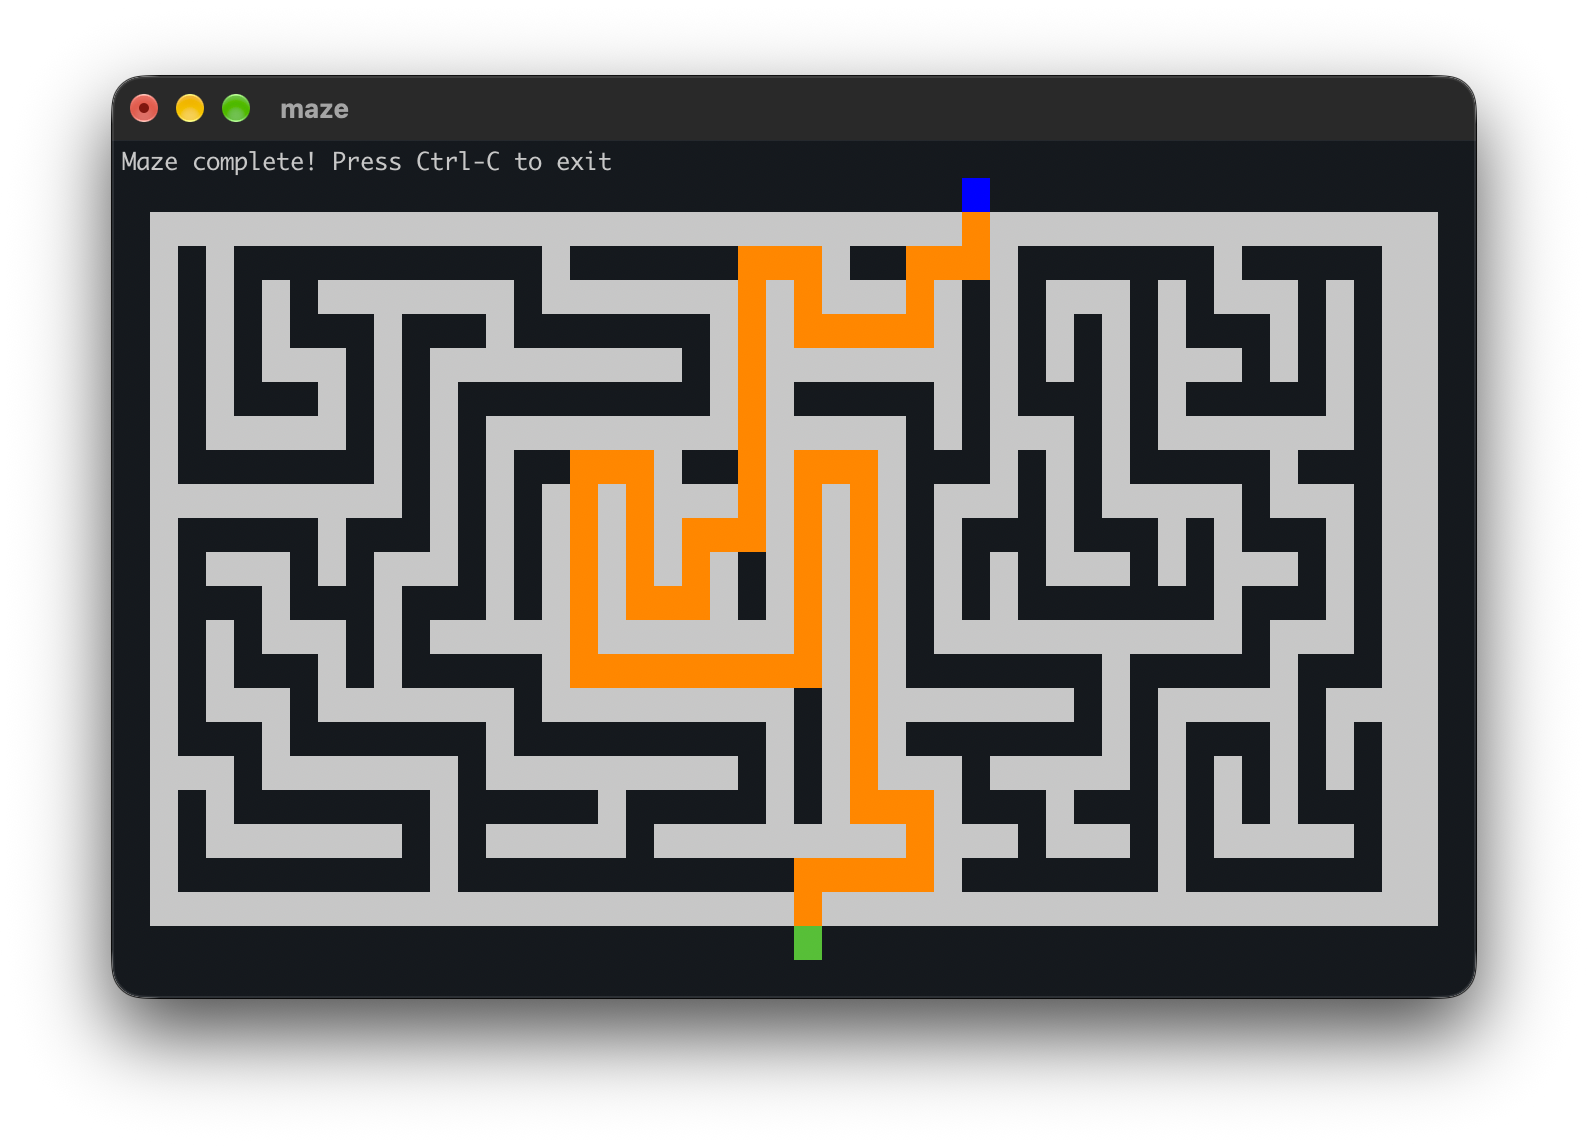
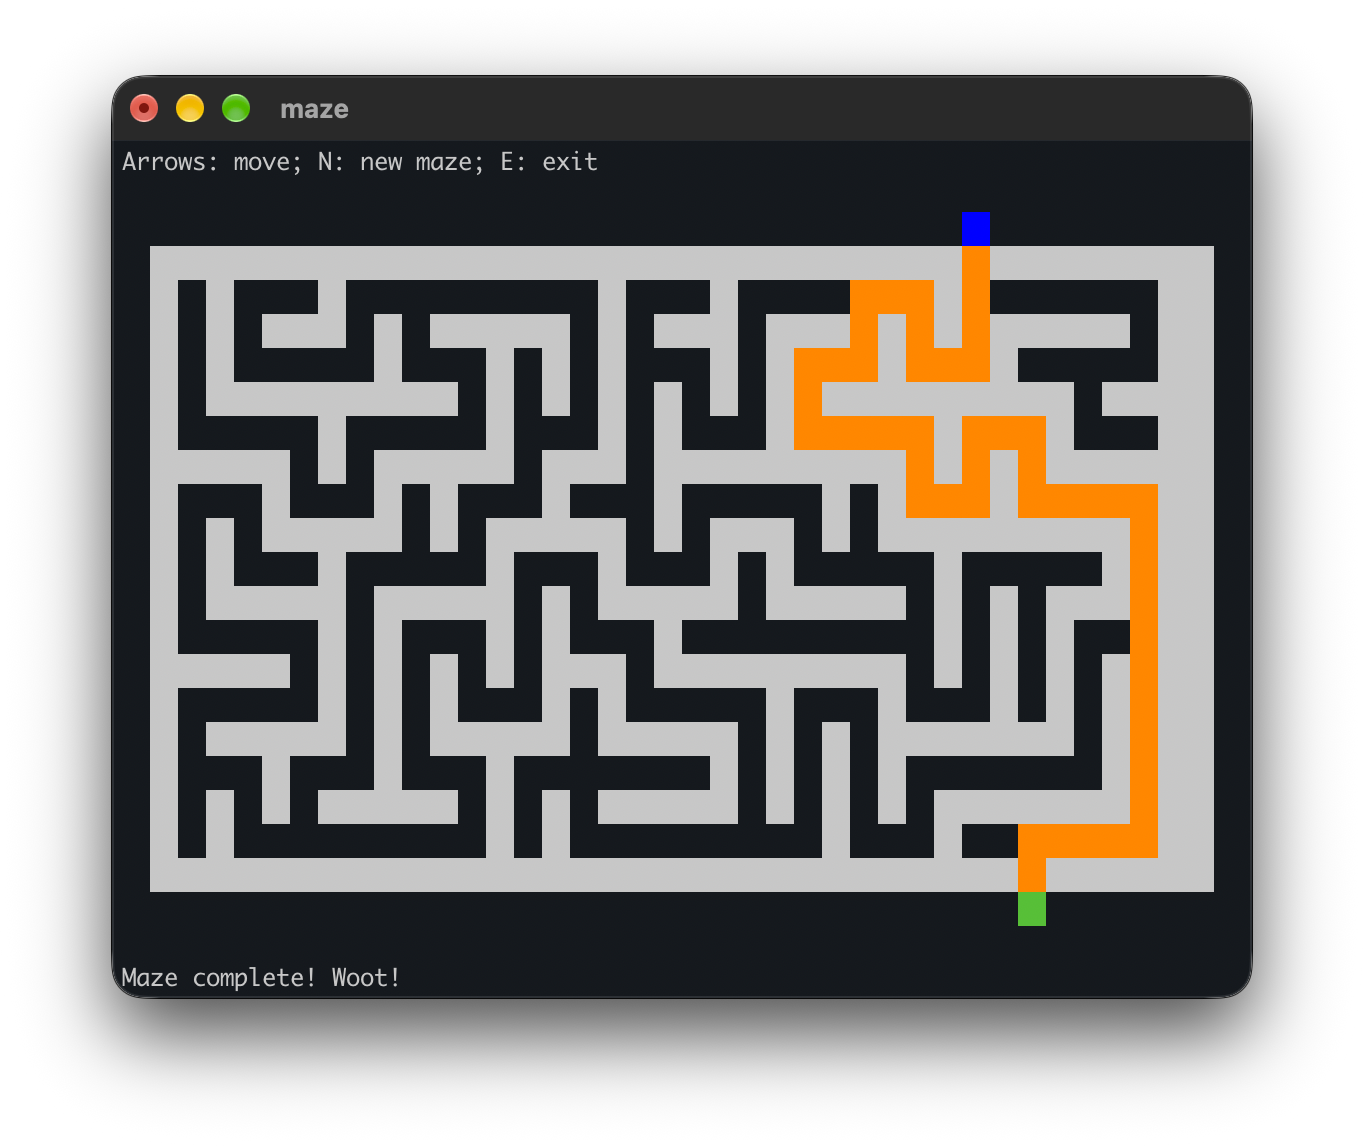
Formatting and new image

diff --git a/maze/main.py b/maze/main.py
@@ -7,8 +7,8 @@ from dataclasses import dataclass, field
 
 Coordinate = tuple[int, int]
 BLINK_INTERVAL = 0.5
-CONTROL_MESSAGE = "Arrows: move   N: new maze   E: exit"
-WIN_MESSAGE = "Maze complete! Press E to exit"
+CONTROL_MESSAGE = "Arrows: move; N: new maze; E: exit"
+WIN_MESSAGE = "Maze complete! Woot!"
 DIRECTIONS = {
     curses.KEY_UP: (-1, 0),
     curses.KEY_DOWN: (1, 0),
@@ -159,7 +159,7 @@ def _draw_game(
     rows, columns = stdscr.getmaxyx()
     stdscr.addnstr(0, 0, CONTROL_MESSAGE, columns, curses.color_pair(color_pairs["message"]))
     if state.won:
-        stdscr.addnstr(1, 0, WIN_MESSAGE, columns, curses.color_pair(color_pairs["message"]))
+        stdscr.addnstr(rows - 1, 0, WIN_MESSAGE, columns, curses.color_pair(color_pairs["message"]))
     stdscr.refresh()
 
 
@@ -204,7 +204,7 @@ def _initialize_colors() -> dict[str, int]:
 
 def _run(stdscr: curses.window) -> int:
     rows, columns = stdscr.getmaxyx()
-    if rows < 8 or columns < 10:
+    if rows < 9 or columns < 10:
         return 1
 
     try:
@@ -216,7 +216,7 @@ def _run(stdscr: curses.window) -> int:
         color_pairs = _initialize_colors()
         stdscr.bkgd(" ", curses.color_pair(1))
         maze_width = (columns - 4) // 2
-        maze_height = rows - 5
+        maze_height = rows - 6
 
         def new_game() -> GameState:
             maze, start, end = generate_maze(maze_height, maze_width, random.Random())
@@ -265,7 +265,7 @@ def main() -> int:
         return 0
 
     if result:
-        print("Terminal must be at least 8 rows and 10 columns.", file=sys.stderr)
+        print("Terminal must be at least 9 rows and 10 columns.", file=sys.stderr)
     return result
 
 

diff --git a/maze/tests/test_main.py b/maze/tests/test_main.py
@@ -106,7 +106,7 @@ class MainTest(unittest.TestCase):
                     break
 
             self.assertEqual(process.poll(), 1)
-            self.assertIn(b"Terminal must be at least 8 rows and 10 columns.", output)
+            self.assertIn(b"Terminal must be at least 9 rows and 10 columns.", output)
             self.assertIn(b"\x1b[?1049l", output)
             self.assertNotIn(b"Traceback", output)
         finally:

diff --git a/maze/tests/test_maze.py b/maze/tests/test_maze.py
@@ -153,7 +153,7 @@ class MazeTest(unittest.TestCase):
 
         self.assertEqual(stdscr.addnstr.call_args_list[-2:], [
             call(0, 0, "Arrows: move   N: new maze   E: exit", 60, 7),
-            call(1, 0, "Maze complete! Press E to exit", 60, 7),
+            call(19, 0, "Maze complete! Press E to exit", 60, 7),
         ])
 
 
